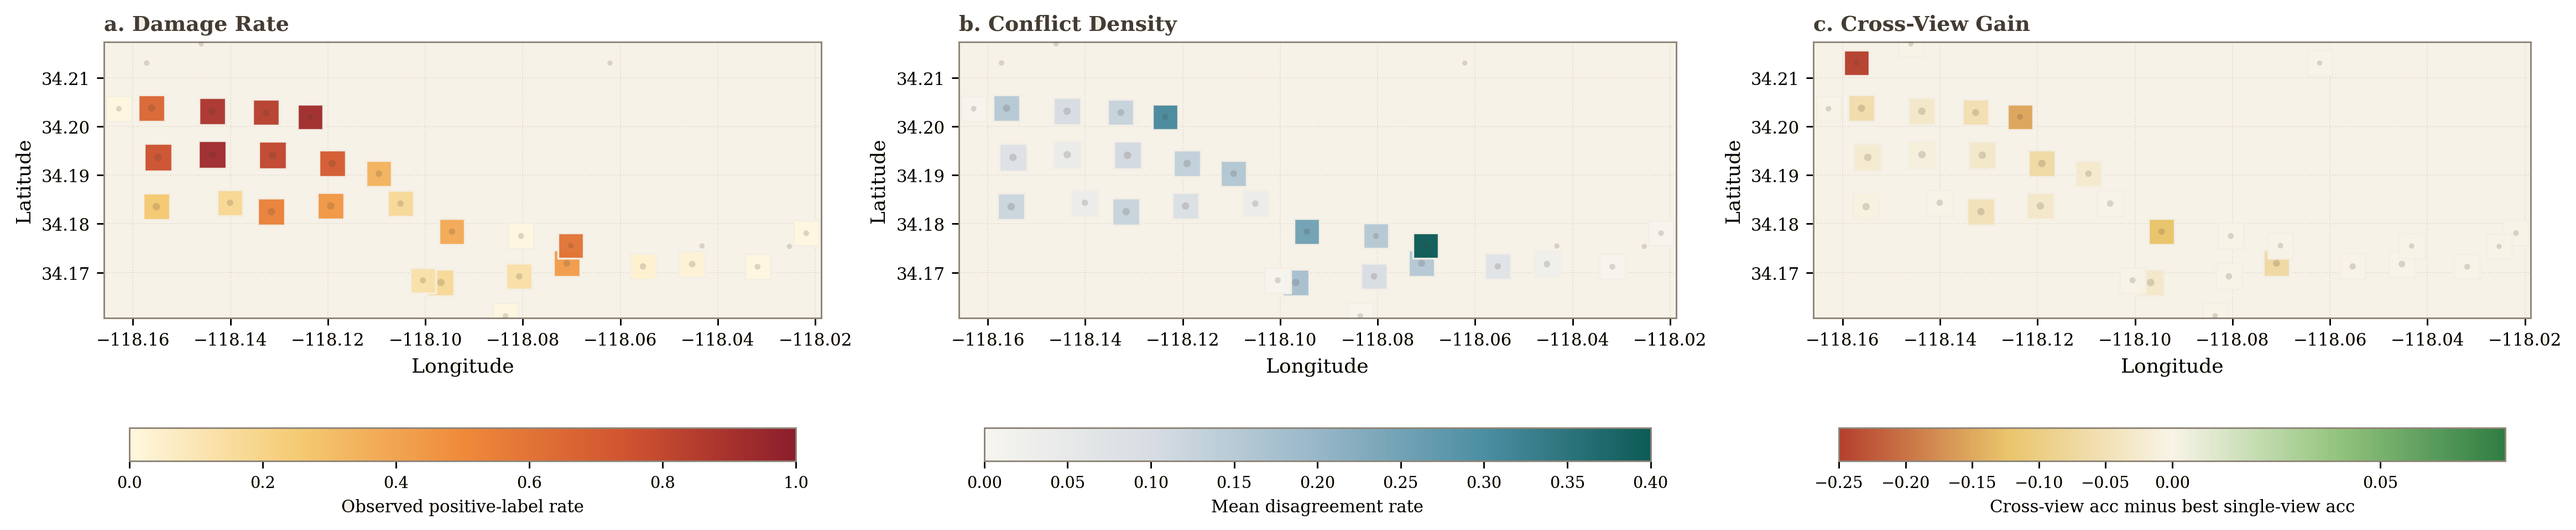
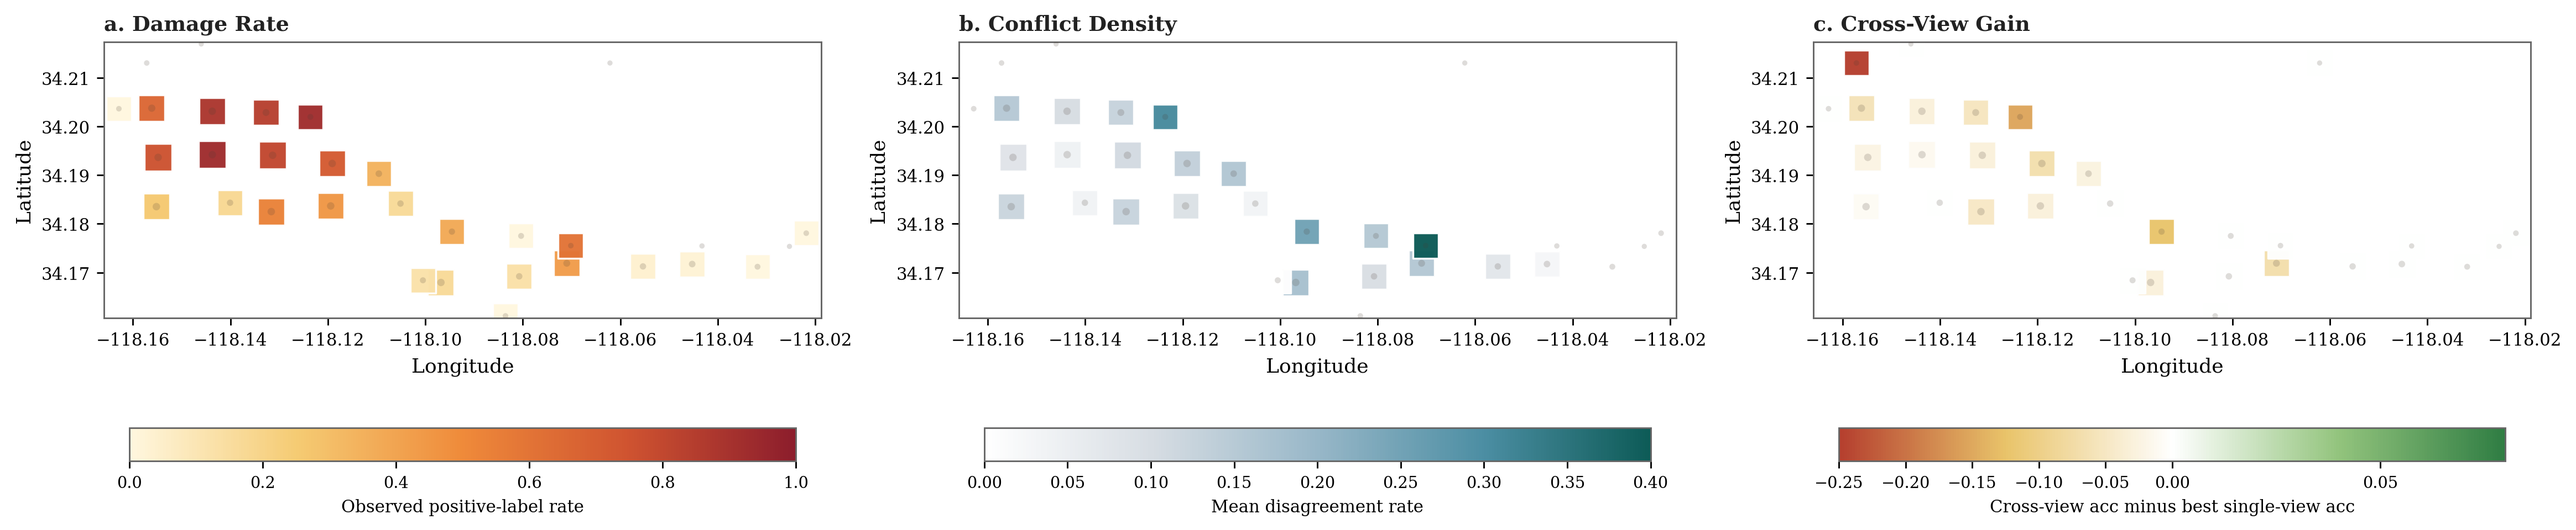
paper: use white backgrounds for analysis figures

diff --git a/scripts/build_wildfire_maps.py b/scripts/build_wildfire_maps.py
@@ -99,16 +99,16 @@ def infer_cell_size(values: np.ndarray, fallback: float) -> float:
 
 
 def format_axes(ax: plt.Axes, title: str, bbox: tuple[float, float, float, float]) -> None:
-    ax.set_title(title, loc="left", fontweight="bold", color="#433c34")
+    ax.set_title(title, loc="left", fontweight="bold", color="#222222")
     ax.set_xlabel("Longitude")
     ax.set_ylabel("Latitude")
     ax.set_xlim(bbox[0], bbox[1])
     ax.set_ylim(bbox[2], bbox[3])
     ax.set_aspect("equal", adjustable="box")
-    ax.grid(True, color="#c7c0b4", linestyle=":", linewidth=0.5, alpha=0.5)
-    ax.set_facecolor("#fbf8f1")
+    ax.grid(False)
+    ax.set_facecolor("#ffffff")
     for spine in ax.spines.values():
-        spine.set_color("#8e8578")
+        spine.set_color("#666666")
         spine.set_linewidth(0.8)
 
 
@@ -128,8 +128,8 @@ def draw_tile_panel(
             (bbox[0], bbox[2]),
             bbox[1] - bbox[0],
             bbox[3] - bbox[2],
-            facecolor="#f7f2e8",
-            edgecolor="#ddd3c3",
+            facecolor="#ffffff",
+            edgecolor="#dddddd",
             linewidth=0.8,
             zorder=0,
         )
@@ -143,7 +143,7 @@ def draw_tile_panel(
         norm=norm,
         s=square_size,
         marker="s",
-        edgecolors="#f4efe6",
+        edgecolors="#ffffff",
         linewidths=0.95,
         alpha=0.97,
         zorder=2,
@@ -200,11 +200,11 @@ def main() -> None:
     )
     conflict_cmap = LinearSegmentedColormap.from_list(
         "wildfire_conflict",
-        ["#f7f5ef", "#d7dde3", "#98b7c8", "#4c8ea3", "#0d5b57"],
+        ["#ffffff", "#d7dde3", "#98b7c8", "#4c8ea3", "#0d5b57"],
     )
     gain_cmap = LinearSegmentedColormap.from_list(
         "wildfire_gain",
-        ["#b53f2e", "#e9c46a", "#f8f4e8", "#93c47d", "#2f7d43"],
+        ["#b53f2e", "#e9c46a", "#ffffff", "#93c47d", "#2f7d43"],
     )
 
     damage_norm = Normalize(vmin=0.0, vmax=1.0)
@@ -215,7 +215,7 @@ def main() -> None:
     gain_norm = TwoSlopeNorm(vmin=gain_min, vcenter=0.0, vmax=gain_max)
 
     fig, axes = plt.subplots(1, 3, figsize=(17.8, 5.7), constrained_layout=True)
-    fig.patch.set_facecolor("#f5f1e8")
+    fig.patch.set_facecolor("#ffffff")
 
     panels = [
         ("damage_rate", "a. Damage Rate", damage_cmap, damage_norm, "Observed positive-label rate"),
@@ -230,18 +230,18 @@ def main() -> None:
         cbar = fig.colorbar(sm, ax=ax, orientation="horizontal", fraction=0.055, pad=0.08)
         cbar.set_label(cbar_label, fontsize=8.5)
         cbar.ax.tick_params(labelsize=8)
-        cbar.outline.set_edgecolor("#8e8578")
+        cbar.outline.set_edgecolor("#666666")
 
-    fig.savefig(outdir / "wildfire_spatial_maps.png", dpi=260, bbox_inches="tight", facecolor=fig.get_facecolor())
-    fig.savefig(outdir / "wildfire_spatial_maps.pdf", dpi=260, bbox_inches="tight", facecolor=fig.get_facecolor())
+    fig.savefig(outdir / "wildfire_spatial_maps.png", dpi=260, bbox_inches="tight", facecolor="white")
+    fig.savefig(outdir / "wildfire_spatial_maps.pdf", dpi=260, bbox_inches="tight", facecolor="white")
     plt.close(fig)
 
     fig2, ax = plt.subplots(figsize=(6.8, 5.8), constrained_layout=True)
-    fig2.patch.set_facecolor("#f5f1e8")
+    fig2.patch.set_facecolor("#ffffff")
     dominance_norm = TwoSlopeNorm(vmin=-0.4, vcenter=0.0, vmax=0.4)
     dominance_cmap = LinearSegmentedColormap.from_list(
         "dominance",
-        ["#31688e", "#b8c8d6", "#f8f4e8", "#d3b28b", "#8c4c2e"],
+        ["#31688e", "#b8c8d6", "#ffffff", "#d3b28b", "#8c4c2e"],
     )
     draw_tile_panel(
         ax,
@@ -259,9 +259,9 @@ def main() -> None:
     cbar2 = fig2.colorbar(sm2, ax=ax, orientation="horizontal", fraction=0.065, pad=0.08)
     cbar2.set_label("Street accuracy minus remote accuracy", fontsize=8.5)
     cbar2.ax.tick_params(labelsize=8)
-    cbar2.outline.set_edgecolor("#8e8578")
-    fig2.savefig(outdir / "wildfire_view_dominance_map.png", dpi=260, bbox_inches="tight", facecolor=fig2.get_facecolor())
-    fig2.savefig(outdir / "wildfire_view_dominance_map.pdf", dpi=260, bbox_inches="tight", facecolor=fig2.get_facecolor())
+    cbar2.outline.set_edgecolor("#666666")
+    fig2.savefig(outdir / "wildfire_view_dominance_map.png", dpi=260, bbox_inches="tight", facecolor="white")
+    fig2.savefig(outdir / "wildfire_view_dominance_map.pdf", dpi=260, bbox_inches="tight", facecolor="white")
     plt.close(fig2)
 
     print(f"Saved tile metrics to {outdir / 'wildfire_tile_map_metrics.csv'}")

diff --git a/scripts/analyze_alignment_gain_correlation.py b/scripts/analyze_alignment_gain_correlation.py
@@ -79,6 +79,8 @@ def _summarize(df: pd.DataFrame, feature: str, permutations: int, seed: int) -> 
 
 def _save_plot(combined: pd.DataFrame, output_path: Path) -> None:
     fig, ax = plt.subplots(figsize=(7, 5), constrained_layout=True)
+    fig.patch.set_facecolor("white")
+    ax.set_facecolor("white")
     rng = np.random.default_rng(42)
     for dataset, color in [("wildfire", "#d95f02"), ("hurricane", "#1b9e77")]:
         subset = combined[combined["dataset"] == dataset].copy()
@@ -101,8 +103,9 @@ def _save_plot(combined: pd.DataFrame, output_path: Path) -> None:
     ax.set_ylabel("Crossview correct on conflict subset")
     ax.set_title("Alignment proxy vs crossview conflict resolution")
     ax.set_ylim(-0.1, 1.1)
-    ax.legend()
-    fig.savefig(output_path, dpi=200)
+    ax.grid(False)
+    ax.legend(frameon=False)
+    fig.savefig(output_path, dpi=200, facecolor="white")
     plt.close(fig)
 
 
